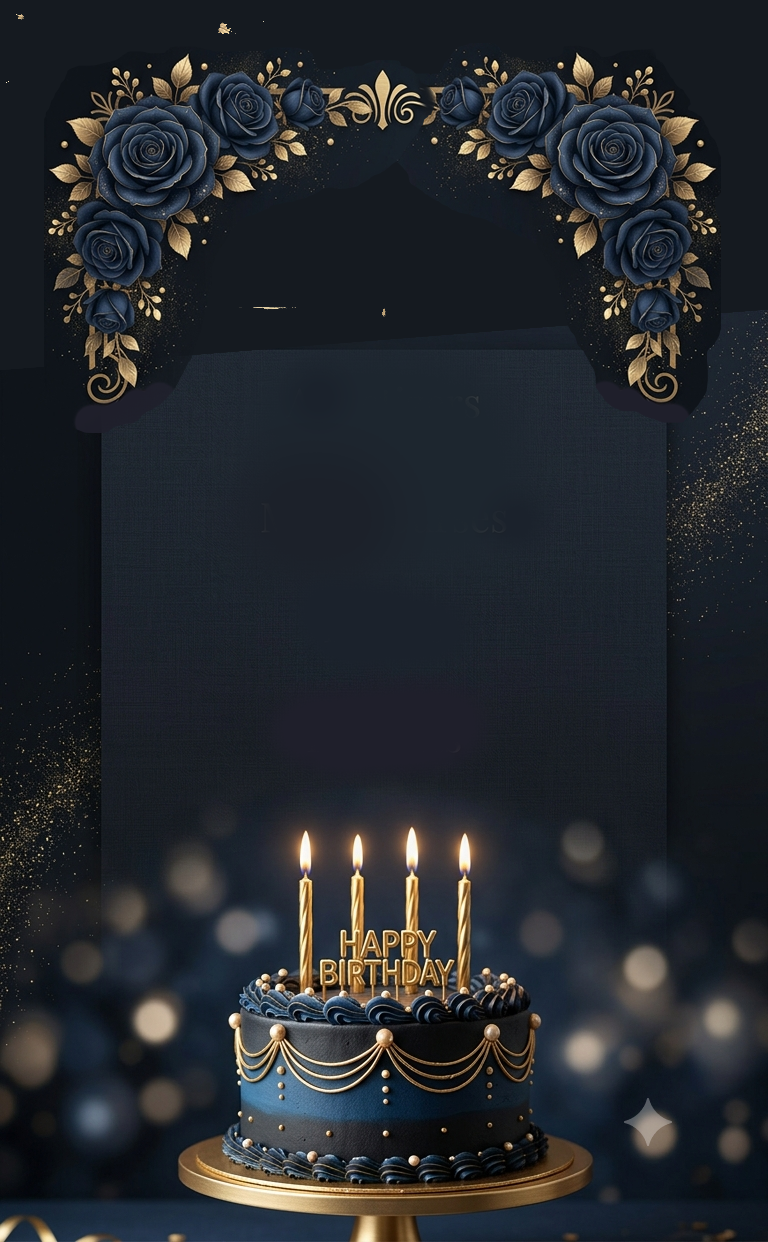
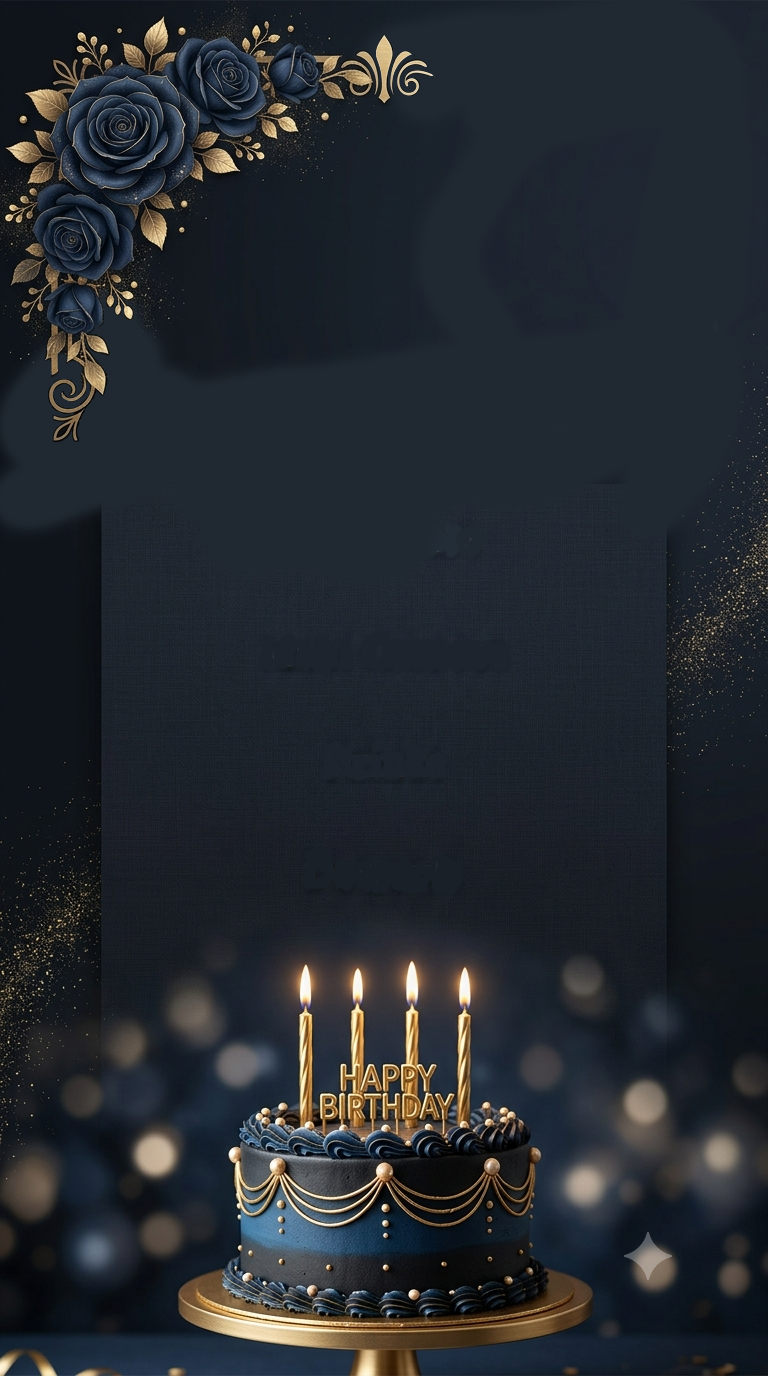
new updates.

diff --git a/style.css b/style.css
@@ -103,8 +103,8 @@ button{
     width: 100%;
     height: 100%;
     object-fit: cover;
-    height: 100vh;
     z-index: 0;
+    border: 1px solid green;
 }
 .spinContainer, #mainTitle, .firstBtn{
     position: relative;